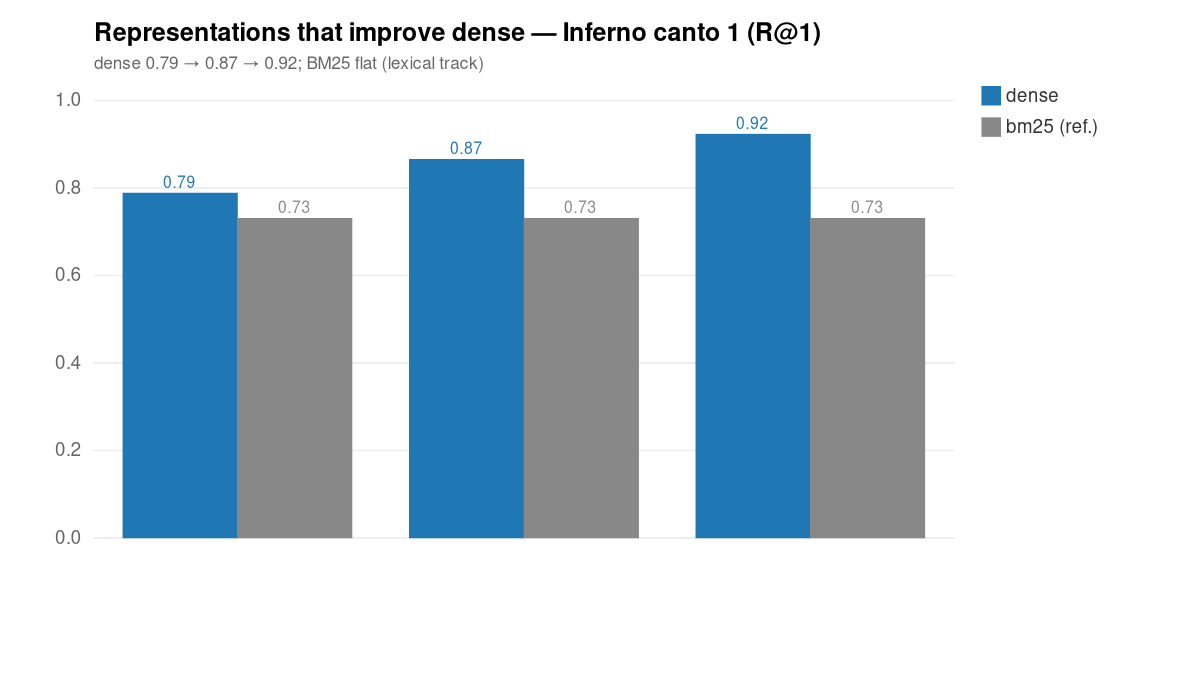
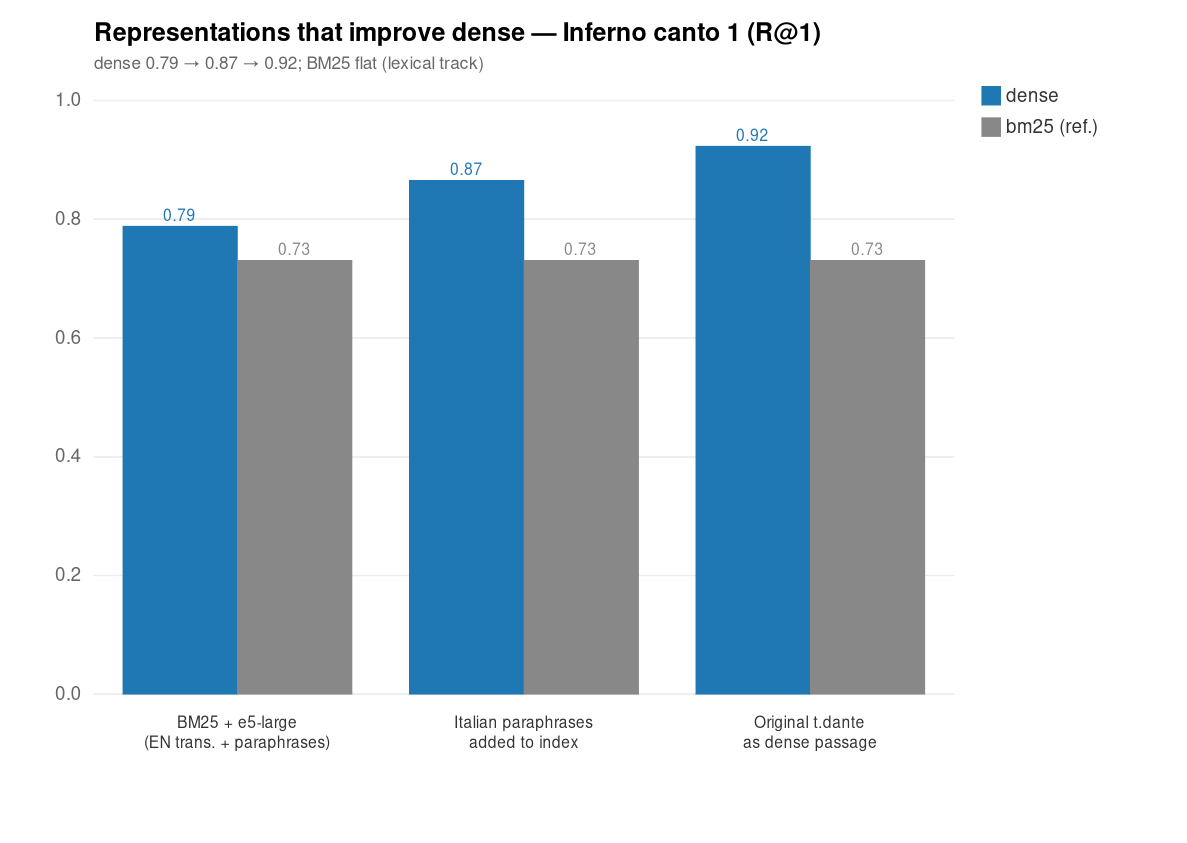
dante-retrieval post: §3 italian-paraphrase ablation + uniform generalization figure
- §2: note that t.dante and Italian paraphrases don't stack (IT subsumed)
- §3: make fig_generalization a uniform t.dante-only, single-canto comparison
  (state the running assumptions); ~0.71 on the non-famous cantos
- §3: add the cross-canto Italian-paraphrase ablation (fig_it_paraphrase_effect,
  negligible/mixed); drop the "reasonable objection" framing, make the question
  explicit
- recolor the ablation figure to two blues (grey meant BM25 elsewhere)
- drop "ecological" label from fig_realworld_progression
- add x-axis labels to fig_realworld_pipeline (re-export)
- add a closing note: entity contexts sourced from Wikipedia (EN list + IT categories)
- regenerate affected figure PNGs

🤖 Generated with [Claude Code](https://claude.com/claude-code)

diff --git a/_writing/dante-retrieval-reality-gap.md b/_writing/dante-retrieval-reality-gap.md
@@ -46,7 +46,7 @@ MRR@10.
 **The investigation**
 
 On Inferno Canto 1 the dense retriever hit **Recall@1 0.92**. 
-The score cannot be taken as representative of other cantos: the canto contains 
+The score cannot be taken seriously as representative of other cantos: the canto contains 
 some of the most famous lines in Western literature, and a multilingual model trained on web data 
 has almost certainly memorized large parts of it.
 
@@ -93,9 +93,13 @@ Two representation fixes followed, each touching only the dense side (BM25 alrea
 2. **Indexing the original `t.dante`** as a dense passage → **0.87 → 0.92**.
 
 <figure>
-  <img src="/assets/dante-retrieval-reality-gap/fig_improvements_canto1.png" alt="Bar chart titled 'Representations that improve dense — Inferno canto 1 (R@1)'. Three dense bars rising left to right: baseline 0.79, +IT paraphrases 0.87, +original Dante 0.92. A flat grey BM25 reference around 0.73.">
+  <img src="/assets/dante-retrieval-reality-gap/fig_improvements_canto1.png" alt="Bar chart titled 'Representations that improve dense — Inferno canto 1 (R@1)'. X-axis labels centered under the bars: 'BM25 + e5-large' / '(EN trans. + paraphrases)', 'Italian paraphrases' / 'added to index', 'Original t.dante' / 'as dense passage'. Dense bars rise 0.79 → 0.87 → 0.92; grey BM25 bars flat ~0.73.">
   <figcaption>The dense retriever’s Recall@1 improves as we add more text it can match against (Italian paraphrases, then the original verses). BM25 (grey line) stays flat as a lexical baseline.</figcaption>
 </figure>
+
+These two fixes are shown as a sequence, but they do not stack: indexing `t.dante` alone reaches 0.92 from the 0.79
+baseline, so once the original verse is present the Italian-paraphrase gain is largely subsumed. The reality check below
+shows this redundancy holds on the other cantos too.
 
 
 ## 3. The reality check
@@ -104,16 +108,34 @@ Canto 1 is the most quoted canto in the poem. A multilingual model trained on th
 thousands of times. 
 
 To check whether 0.92 was specific to this famous canto, 
-I run the system on additional curated sets for cantos 5,
+I run the system on additional curated sets for cantos 4, 5,
 26 and 30. These sets were generated via agent prompt + gating primarily 
 as validation probes on the codebase, and now used to test the
-system on less famous material and see what typical performance looked like once the canto-1 outlier was removed. On
-those, dense Recall@1 clustered around **~0.72**.
+system on less famous material and see what typical performance looked like once the canto-1 outlier was removed. Each
+canto is scored with the **same dense configuration** (the original `t.dante` plus the English representations, no entity
+or paraphrase extras) and evaluated **single-canto**. On those, dense Recall@1 clustered around **~0.71**.
 
 <figure>
-  <img src="/assets/dante-retrieval-reality-gap/fig_generalization.png" alt="Bar chart 'Generalization: dense R@1 per canto (curated sets)'. Canto 1 dense 0.92 (outlier above a dashed mean line at ~0.73), cantos 4/5/26/30 between 0.69 and 0.77.">
-  <figcaption>Canto 1 is a fame/memorization outlier; the number on the other curated sets is ~0.72.</figcaption>
+  <img src="/assets/dante-retrieval-reality-gap/fig_generalization.png" alt="Bar chart 'Generalization: dense R@1 per canto (single-canto eval)'. Same dense config per canto. Canto 1 dense 0.92 (outlier above a dashed mean line at 0.71), cantos 4/5/26/30 dense between 0.67 and 0.75; grey BM25 bars 0.36–0.73.">
+  <figcaption>Same dense config and single-canto eval for every canto: canto 1 is a fame/memorization outlier; the others sit at ~0.71.</figcaption>
 </figure>
+
+In §2, once the original verse `t.dante` was indexed, the Italian paraphrases stopped adding anything on canto 1 — the
+paraphrase became a redundant representation. But canto 1 is the memorized case. Would the Italian paraphrases still be
+redundant on the less-famous cantos, or would they actually help there, where the model cannot lean on memorization and a
+same-language reformulation might catch Italian queries the original misses? I checked directly — generating Italian
+paraphrases for cantos 4, 5, 26 and 30 and measuring the dense retriever with and without them, everything else held
+fixed.
+
+<figure>
+  <img src="/assets/dante-retrieval-reality-gap/fig_it_paraphrase_effect.png" alt="Grouped bars 'Isolated effect of Italian paraphrases — dense R@1 per canto'. For cantos 4/5/26/30, a light-blue 't.dante only' bar next to a darker-blue '+ Italian paraphrases' bar (both dense): 0.70/0.68, 0.67/0.67, 0.75/0.77, 0.72/0.74. Subtitle: negligible/mixed once t.dante is indexed (mean 0.71 → 0.72).">
+  <figcaption>Adding Italian paraphrases on top of the original verse moves dense R@1 by +0.006 on average — negligible and mixed.</figcaption>
+</figure>
+
+The effect is negligible and mixed: mean Recall@1 **0.71 → 0.72** (−0.02 on canto 4, 0 on canto 5, +0.02 on cantos 26 and
+30), and it slightly *hurts* Recall@5 on two cantos, where near-duplicate Italian sentences crowd the top results. Once
+the original verse `t.dante` is indexed, the Italian paraphrase is a largely redundant representation for verse recall —
+on the less-famous cantos as much as on canto 1. 
 
 Those sets were still single-canto: the evaluator benefits from knowing which canto the passage is in, so the gold
 only has to be distinguished among ~46 candidate tercets.
@@ -142,7 +164,8 @@ The earlier sets served their purposes: canto 1 as the high-fidelity development
 
 The realistic benchmark showed what actually worked.
 
-**Entity grounding.** Adding a short descriptive context for each character helped on the cross-canto set’s many
+**Entity grounding.** Adding a short descriptive context for each character (sourced from Wikipedia — see the note at the
+end) helped on the cross-canto set’s many
 name queries. The gain was much larger, however, after fixing a data bug: the contexts were attached to tercets where
 the character merely appeared, not where its name is mentioned. (Homer’s bio sat on four peripheral tercets instead of
 the line that says 'quelli è Omero'.) Moving each to its canonical tercet roughly doubled the improvement.
@@ -198,7 +221,7 @@ Single-canto tests on well-known passages give more flattering results than quer
 
 Looking at the sequence of results:
 
-- Generalization probes on other cantos + the real-world cross-canto set → 0.92 → 0.72 → 0.42.
+- Generalization probes on other cantos + the real-world cross-canto set → 0.92 → 0.71 → 0.42.
 - Representations, query-aware fusion, and reranking → 0.42 → 0.51.
 - A stronger encoder produced no improvement.
 - recall@50 = 0.74 with reranked R@1 = 0.51 → the gold is there, and the reranker can't pick it.
@@ -241,6 +264,11 @@ Before closing, several methodological weaknesses and inconsistencies in the cur
 **Inconsistencies**
 
 - **Contradictory Architecture Descriptions**: The introduction defines the dense retrieval index as running specifically "over translations and paraphrases". However, Section 2 notes that one of the representation fixes was "Indexing the original `t.dante` as a dense passage". The introductory summary does not accurately reflect the updated architecture used for the final benchmarks.
+
+**Note — entity contexts.** The per-character descriptive contexts were not hand-written. They were extracted by parsing
+the English Wikipedia [List of cultural references in the Divine Comedy](https://en.wikipedia.org/wiki/List_of_cultural_references_in_the_Divine_Comedy),
+then mapping each name to its Italian form via the Italian Wikipedia character categories — e.g.
+[Personaggi citati nella Divina Commedia (Inferno)](https://it.wikipedia.org/wiki/Categoria:Personaggi_citati_nella_Divina_Commedia_%28Inferno%29).
 
 *This is a working draft from an ongoing project; numbers and figures are reproducible from the project's versioned ML
 journal.*
